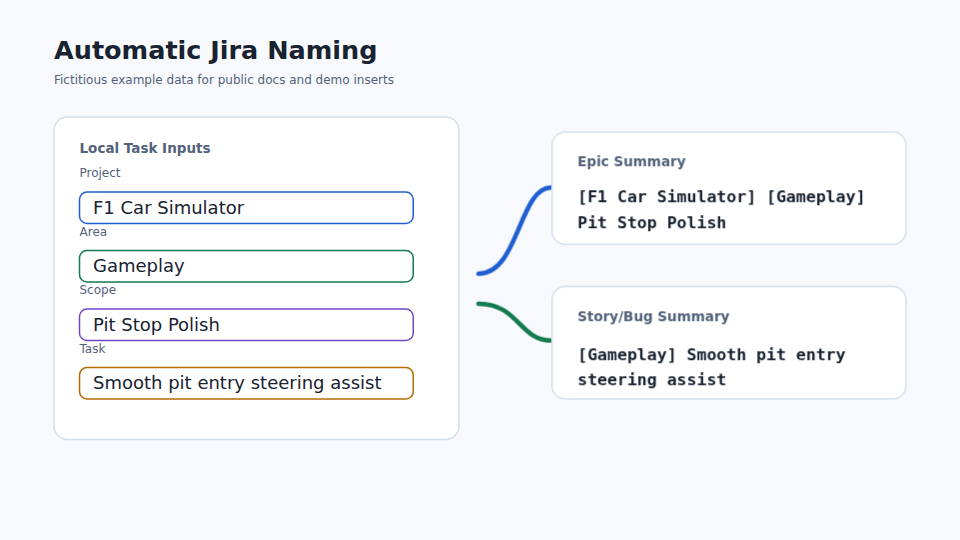
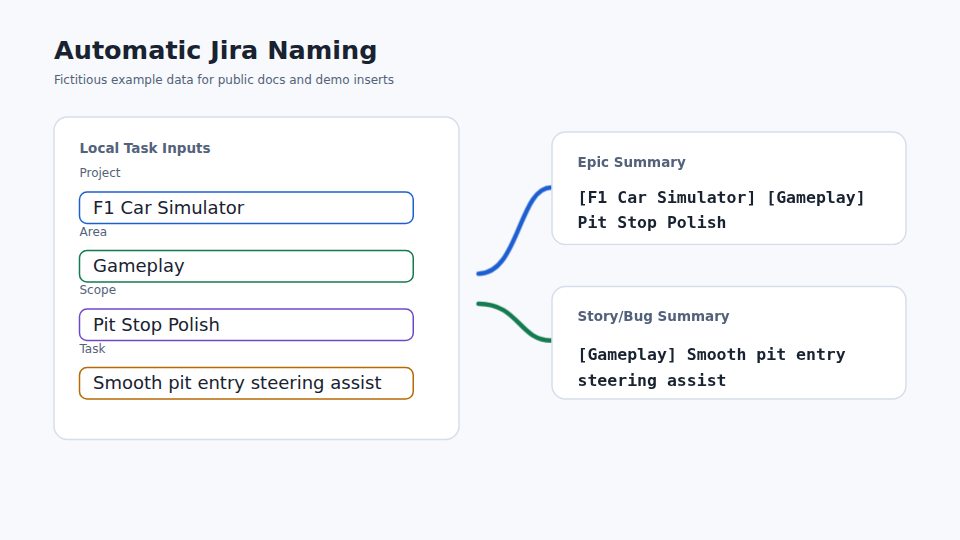
docs: add animated video kit exports

diff --git a/docs/video-kit/README.md b/docs/video-kit/README.md
@@ -6,6 +6,13 @@ manually.
 
 ## Assets
 
+- `animated/automatic-naming.gif`: directly usable animated export for automatic
+  Jira naming.
+- `animated/manual-vs-sync.gif`: directly usable animated export for Manual mode
+  versus Sync from Notion page.
+- `animated/proposal-review.gif`: directly usable animated export for Proposal
+  Review decisions.
+- `animated/manifest.json`: generated export metadata.
 - `generated/automatic-naming.svg`: local task inputs becoming Epic and
   Story/Bug summaries.
 - `generated/manual-vs-sync.svg`: Manual mode and Sync from Notion page toggle.
@@ -16,6 +23,23 @@ manually.
 
 All example data is fictitious.
 
+## Animated Export Specs
+
+The committed animated exports are GIF89a files generated from the same SVG
+source timeline:
+
+- dimensions: `640x360`;
+- duration: `6s`;
+- source frame rate: `10 fps`;
+- source frame count: `60`;
+- palette: per-frame 128-color quantization;
+- target use: README inserts, issue/PR handoff previews, and timeline-friendly
+  video editing placeholders.
+
+MP4/WebM exports are not committed because this repo does not require a global
+`ffmpeg` or ImageMagick install. The GIF exports are the directly usable
+animated format for this kit.
+
 ## Regenerate
 
 From the repo root:
@@ -25,6 +49,19 @@ npm run assets:video-kit
 ```
 
 The command rewrites every generated SVG and PNG deterministically.
+It also rewrites every GIF animated export and `animated/manifest.json`.
+
+## Verification
+
+Useful checks:
+
+```bash
+file docs/video-kit/animated/*.gif docs/video-kit/frames/*.png
+node -e 'const fs=require("fs"); for (const p of fs.readdirSync("docs/video-kit/animated").filter(f=>f.endsWith(".gif"))) { const b=fs.readFileSync("docs/video-kit/animated/"+p); const frames=(b.toString("binary").match(/\x21\xF9\x04/g)||[]).length; console.log(p+" frames="+frames+" bytes="+b.length+" header="+b.subarray(0,6).toString()); }'
+```
+
+Expected result: every animated export reports `GIF89a`, `640 x 360`, a
+non-zero frame-control count, and a sub-1 MB file size.
 
 ## Visual Approval
 